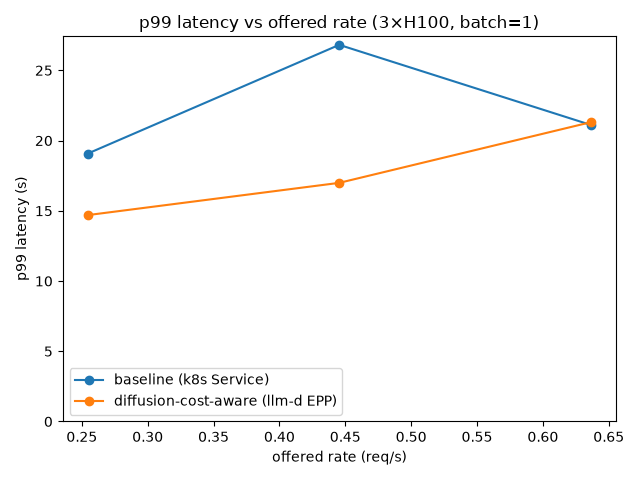
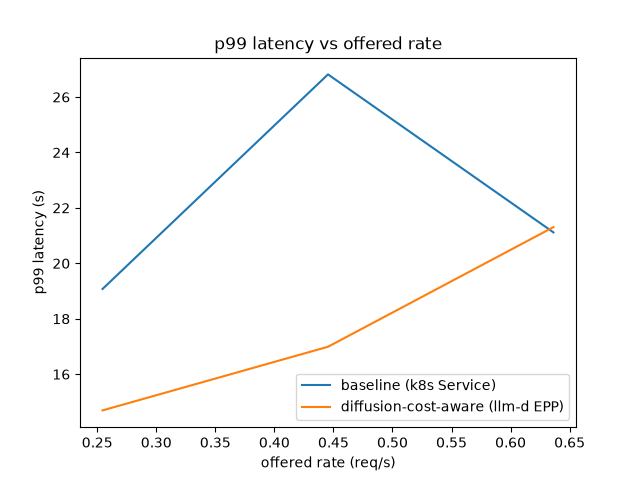
Use bare matplotlib defaults for benchmark figures

diff --git a/guides/diffusion-serving/analysis/plot_results.py b/guides/diffusion-serving/analysis/plot_results.py
@@ -76,13 +76,11 @@ def _plot_latency(data, outdir: Path, key, fname, title, ylabel):
         rates, med, _, _ = series(data, arm, key)
         if not len(rates):
             continue
-        ax.plot(rates, med, marker="o", label=ARM_LABEL[arm])
+        ax.plot(rates, med, label=ARM_LABEL[arm])
     ax.set_title(title)
     ax.set_xlabel("offered rate (req/s)")
     ax.set_ylabel(ylabel)
-    ax.set_ylim(bottom=0)
     ax.legend()
-    fig.tight_layout()
     fig.savefig(outdir / fname)
     plt.close(fig)
 
@@ -98,12 +96,12 @@ def pool_desc(results_dir: Path) -> str:
 
 def plot_p99(data, outdir: Path, pool: str = "H100 pool"):
     _plot_latency(data, outdir, "latency_p99", "1_p99_latency.png",
-                  f"p99 latency vs offered rate ({pool}, batch=1)", "p99 latency (s)")
+                  "p99 latency vs offered rate", "p99 latency (s)")
 
 
 def plot_mean(data, outdir: Path, pool: str = "H100 pool"):
     _plot_latency(data, outdir, "latency_mean", "2_mean_latency.png",
-                  f"mean latency vs offered rate ({pool}, batch=1)", "mean latency (s)")
+                  "mean latency vs offered rate", "mean latency (s)")
 
 
 def main() -> None:

diff --git a/guides/diffusion-serving/results/bimodal-quick-1/REPORT.md b/guides/diffusion-serving/results/bimodal-quick-1/REPORT.md
@@ -1,6 +1,6 @@
 # Cost-aware routing benchmark — report
 
-Generated 2026-07-16 21:07 UTC. Workload: **dataset_bimodal.json** (mixed-resolution t2i, see `workloads/`). Pool: 3×H100 running `Qwen/Qwen-Image`, batch=1. Run: `preset=quick workload=dataset_bimodal.json replicas=3 started=2026-07-15T00:20:45+00:00`.
+Generated 2026-07-16 21:33 UTC. Workload: **dataset_bimodal.json** (mixed-resolution t2i, see `workloads/`). Pool: 3×H100 running `Qwen/Qwen-Image`, batch=1. Run: `preset=quick workload=dataset_bimodal.json replicas=3 started=2026-07-15T00:20:45+00:00`.
 
 | arm | routing policy |
 |---|---|

diff --git a/guides/diffusion-serving/results/quick-3rep-dataset-c/REPORT.md b/guides/diffusion-serving/results/quick-3rep-dataset-c/REPORT.md
@@ -1,6 +1,6 @@
 # Cost-aware routing benchmark — report
 
-Generated 2026-07-16 21:07 UTC. Workload: **dataset_c.json** (mixed-resolution t2i, see `workloads/`). Pool: 3×H100 running `Qwen/Qwen-Image`, batch=1. Run: `preset=quick workload=dataset_c.json replicas=3 started=2026-07-14T22:00:00+00:00`.
+Generated 2026-07-16 21:33 UTC. Workload: **dataset_c.json** (mixed-resolution t2i, see `workloads/`). Pool: 3×H100 running `Qwen/Qwen-Image`, batch=1. Run: `preset=quick workload=dataset_c.json replicas=3 started=2026-07-14T22:00:00+00:00`.
 
 | arm | routing policy |
 |---|---|
